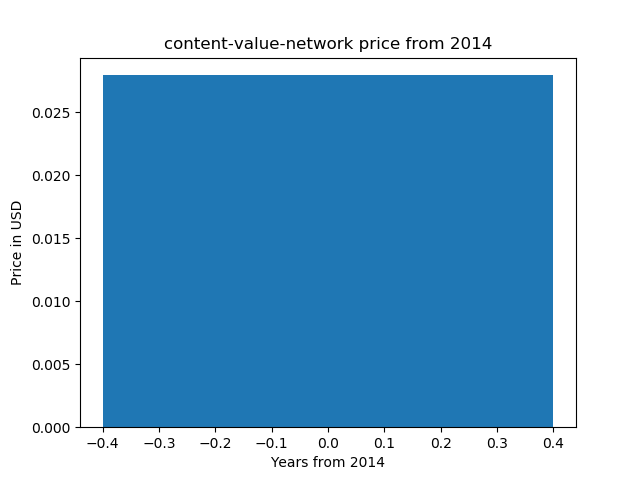
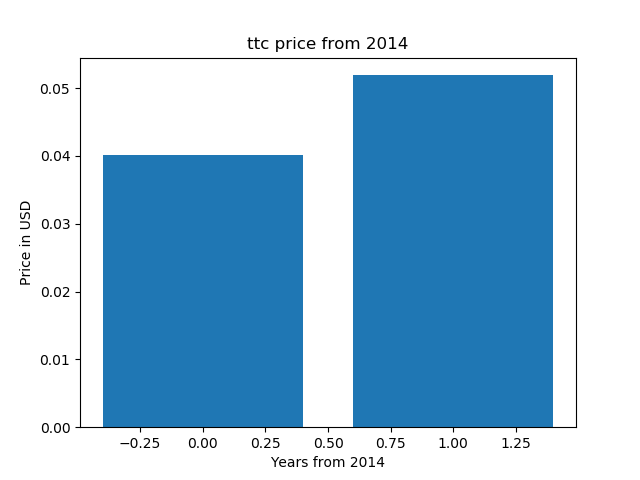
first commit

diff --git a/example.py b/example.py
@@ -10,7 +10,7 @@ from time import gmtime, strftime
 import matplotlib.pyplot as plt
 
 enddate = strftime("%Y%m%d", gmtime())
-r  = requests.get("https://coinmarketcap.com/currencies/content-value-network/historical-data/?start=20140101&end={0}".format(enddate))
+r  = requests.get("https://coinmarketcap.com/currencies/ttc/historical-data/?start=20140101&end={0}".format(enddate))
 data = r.text
 
 soup = BeautifulSoup(data, "html.parser")
@@ -44,7 +44,7 @@ print(x)
 
 x = list(range(0, len(prices)))
 
-plt.title('content-value-network price from 2014')
+plt.title('ttc price from 2014')
 plt.ylabel('Price in USD')
 plt.xlabel('Years from 2014')
 plt.bar(x, prices)

diff --git a/README.md b/README.md
@@ -1,6 +1,6 @@
-# content-value-network price chart 
+# ttc price chart 
 
-content-value-network price chart (matplotlib, python)
+ttc price chart (matplotlib, python)
 
 https://pythonprogramminglanguage.com
 
